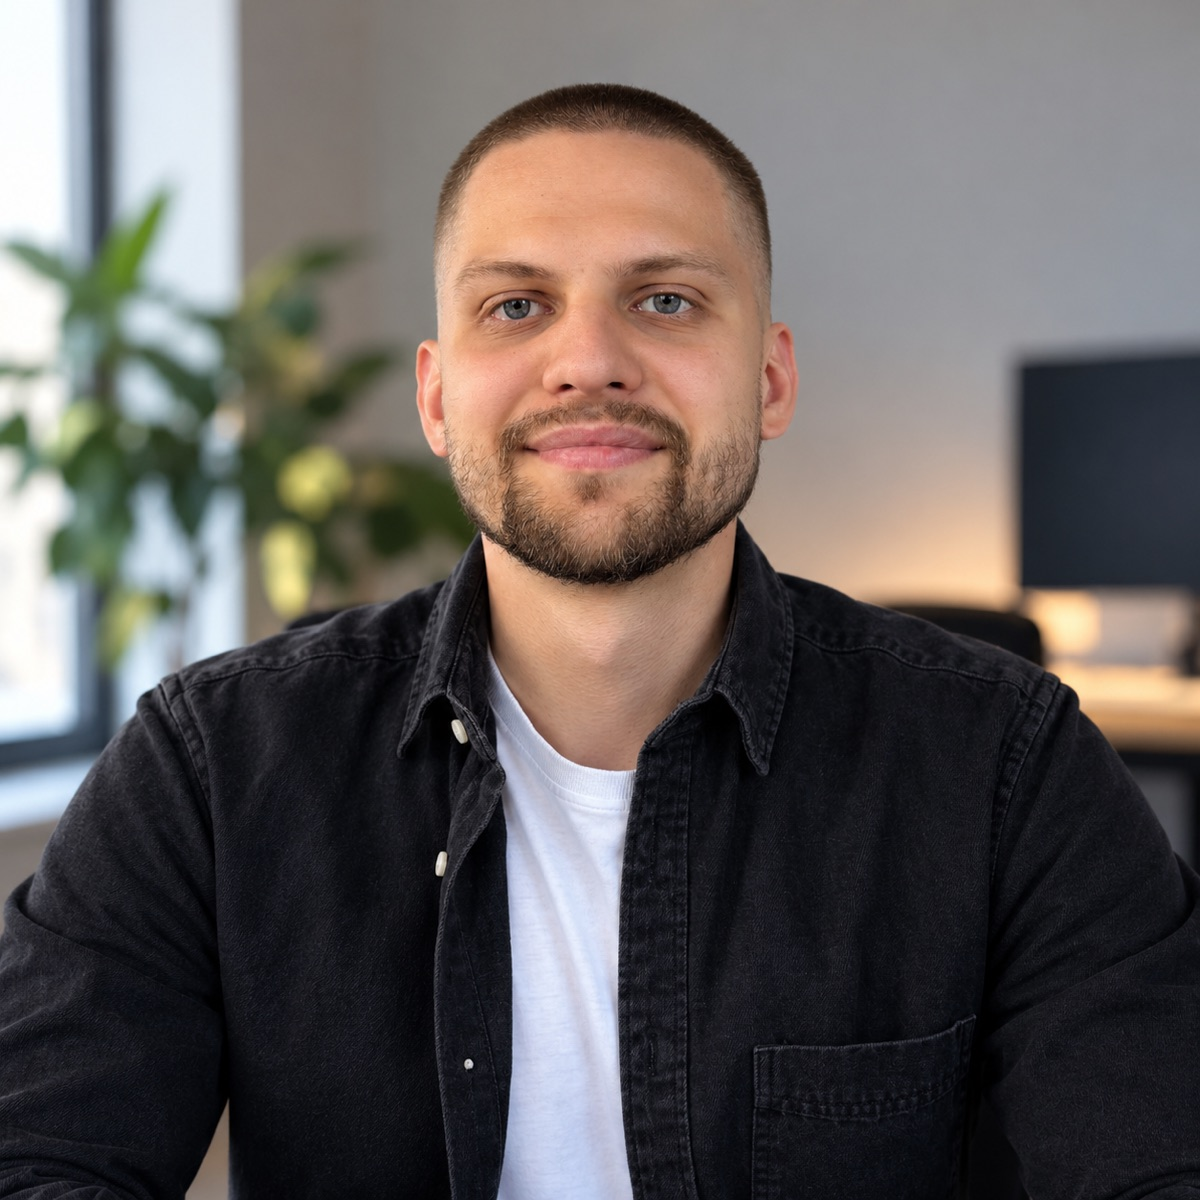
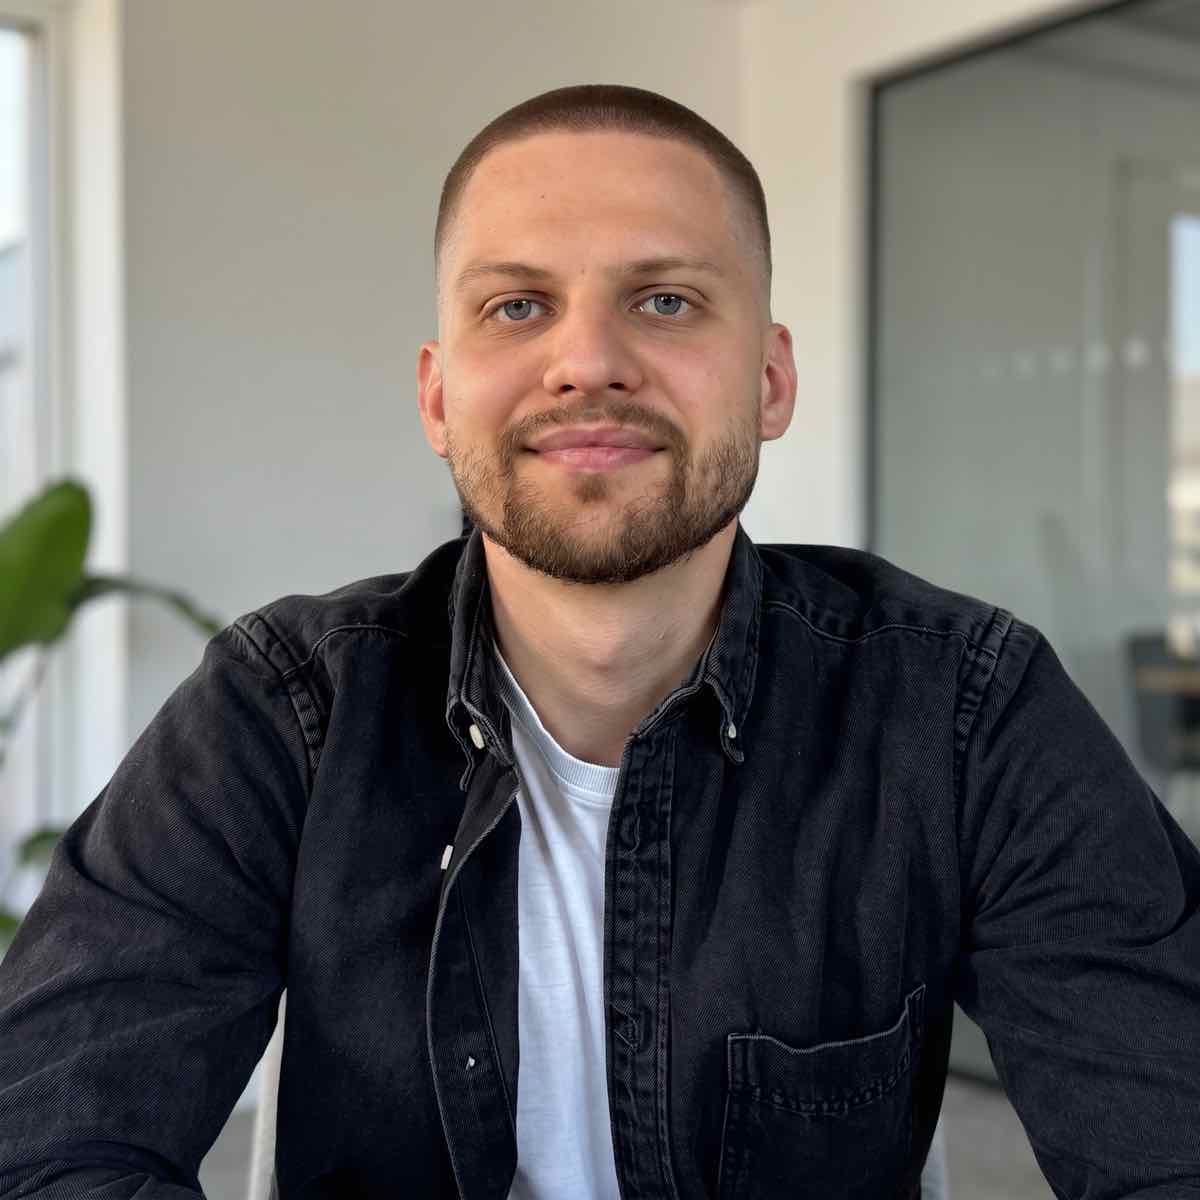
Use new portrait photo, optimized to 400/760px WebP

diff --git a/src/components/Portrait.tsx b/src/components/Portrait.tsx
@@ -1,6 +1,6 @@
 import { motion, useTransform, type MotionValue } from 'motion/react';
+import portrait400 from '../assets/portrait-400.webp';
 import portrait760 from '../assets/portrait-760.webp';
-import portrait1254 from '../assets/portrait-1254.webp';
 import portraitTiny from '../assets/portrait-tiny.webp';
 import { LOCKED_CLIP, rise } from '../motion';
 import type { Phase } from '../useUnlock';
@@ -46,11 +46,11 @@ export function Portrait({ phase, progress }: Props) {
         <motion.img
           className="portrait__photo"
           src={portrait760}
-          srcSet={`${portrait760} 760w, ${portrait1254} 1254w`}
+          srcSet={`${portrait400} 400w, ${portrait760} 760w`}
           sizes="(max-width: 640px) 70vw, 380px"
           alt="Portrait of Nazar Dzys"
-          width={1254}
-          height={1254}
+          width={760}
+          height={760}
           fetchPriority="high"
           style={{ clipPath }}
         />
